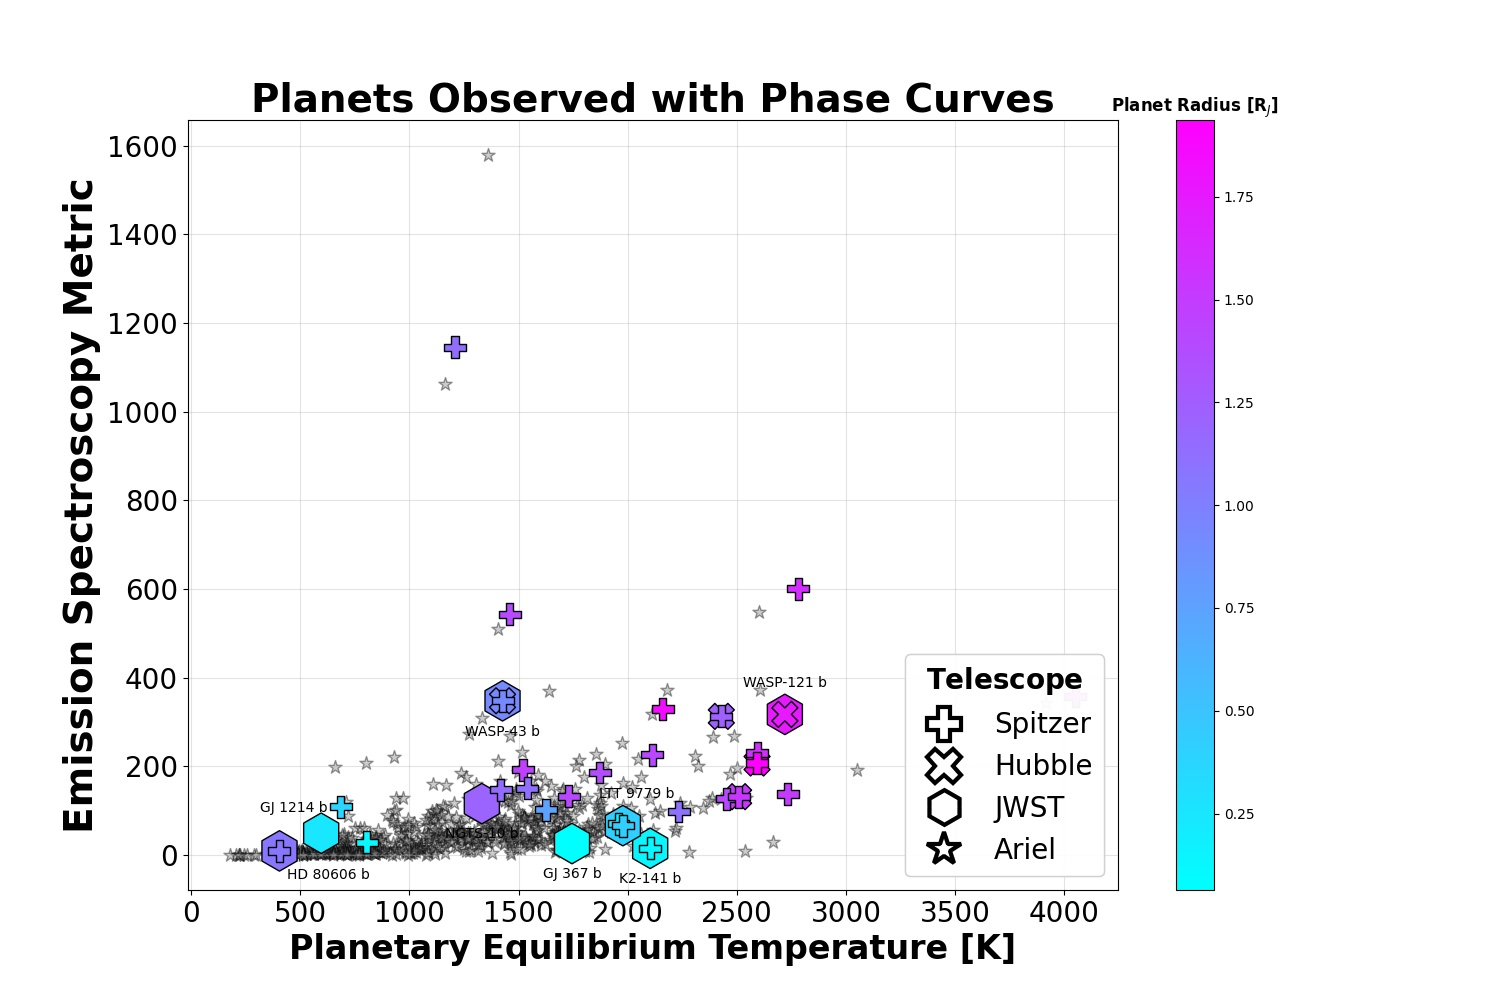
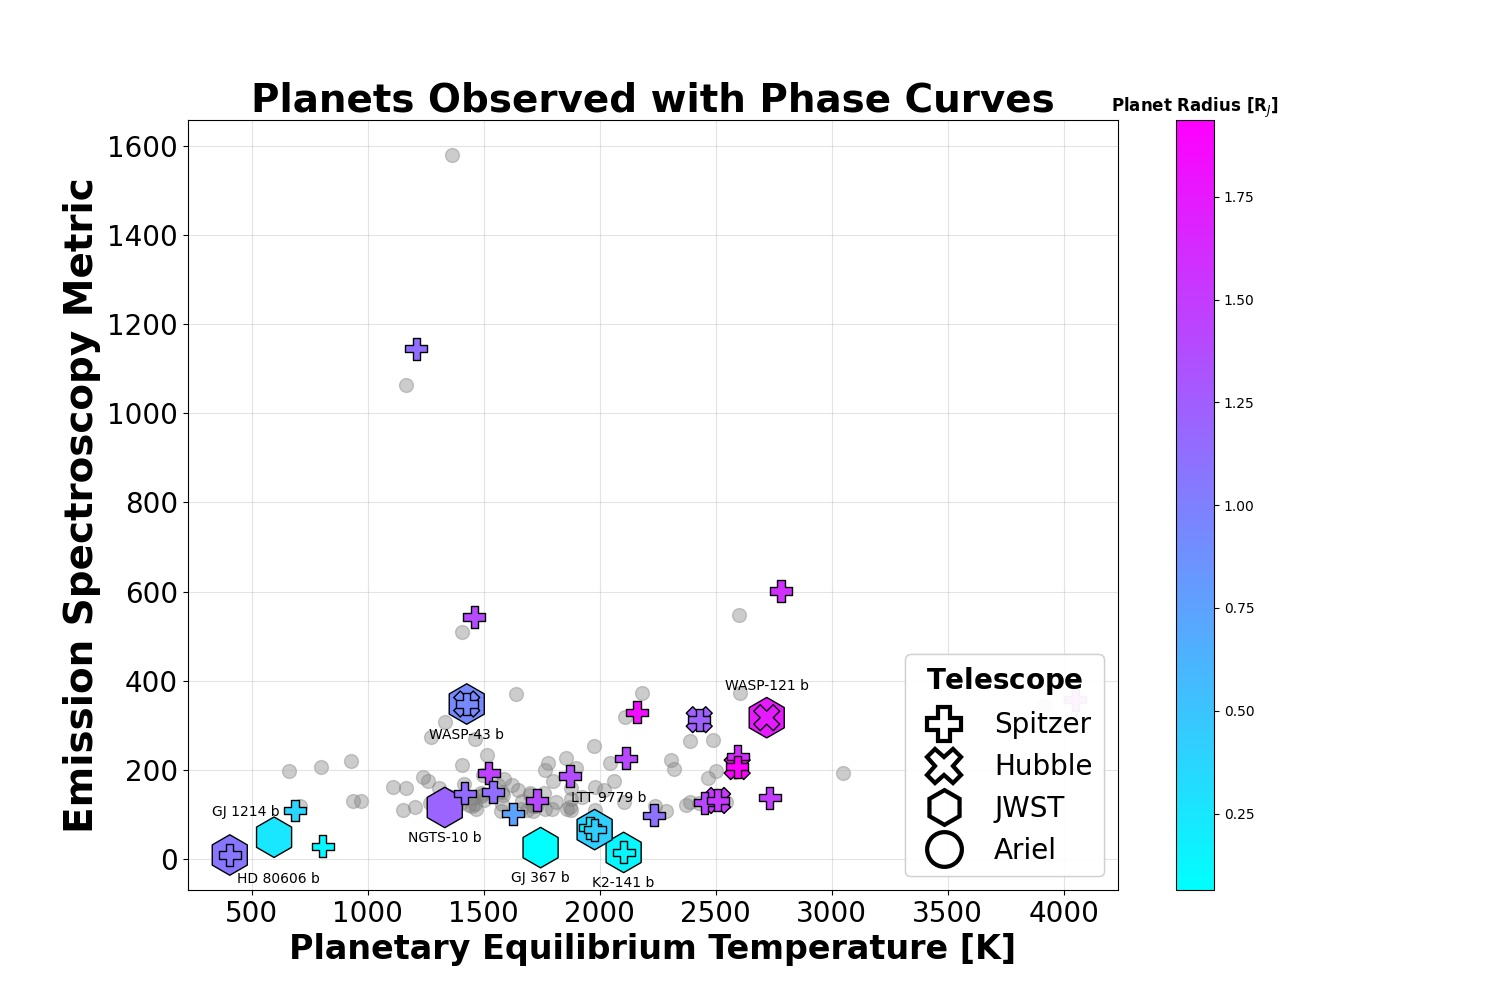
5/9 19:02

diff --git a/Ariel_Teq_period.py b/Ariel_Teq_period.py
@@ -12,10 +12,10 @@ ariel_ESM_high['Spectral Type'] = ariel_ESM_high['Star Spectral Type'].str[0]
 colors = {'O': 'violet', 'B': 'mediumblue', 'A': 'lightblue', 'F': 'lawngreen', 'G': 'yellow', 'K': 'orange', 'M': 'orangered', np.nan: 'grey'}
 
 
-Ariel_low_plot = ax.scatter(ariel_ESM_low["Planet Temperature [K]"], ariel_ESM_low['Planet Radius [Rj]'],
+Ariel_low_plot = ax.scatter(ariel_ESM_low["Planet Temperature [K]"], ariel_ESM_low['Planet Period [days]'],
                         alpha=0.4, s = 50, c = "pink", marker="o",
                         label = "Ariel", zorder = 1)
-Ariel_ESM_plot = ax.scatter(ariel_ESM_high["Planet Temperature [K]"], ariel_ESM_high['Planet Radius [Rj]'],
+Ariel_ESM_plot = ax.scatter(ariel_ESM_high["Planet Temperature [K]"], ariel_ESM_high['Planet Period [days]'],
                         alpha=0.9, s = 150, c = ariel_ESM_high['Spectral Type'].apply(lambda  x: colors[x]),
                         edgecolor= 'white', marker="o", zorder = 2)
 
@@ -27,15 +27,15 @@ Ariel_ESM_plot = ax.scatter(ariel_ESM_high["Planet Temperature [K]"], ariel_ESM_
 # Add the legend manually to the current Axes.
 #ax = plt.gca().add_artist(first_legend)
 legend_elements = [plt.scatter([], [], marker='o', color=color,  label=spec) for spec, color in colors.items()]
-plt.legend(handles=legend_elements, title='Spectral Type',   loc='lower right')
+plt.legend(handles=legend_elements, title='Spectral Type',   loc='upper right')
 
 
 plt.grid(True, alpha=0.35)
 plt.xlabel("Planetary Equilibrium Temperature [K]", fontsize=18)
-plt.ylabel("Planet Radius [$R_J$]", fontsize=18)
-plt.title("Ariel Phase Curve Targets: Temperature vs Radius", fontsize=24)
-#plt.yscale('log')
+plt.ylabel("Planet Period [days]", fontsize=18)
+plt.title("Ariel Phase Curve Targets: Temperature vs Period", fontsize=24)
+plt.yscale('log')
 # plt.ylim([0,105])
-plt.savefig(save_dir + 'Ariel-PhaseCurve-Temp-Rad.jpg')
+plt.savefig(save_dir + 'Ariel-PhaseCurve-Temp-Per.jpg')
 
 plt.show()

diff --git a/phasecurve_plot_cheryl.py b/phasecurve_plot_cheryl.py
@@ -48,7 +48,7 @@ ariel['ESM'] = ESM(1.1*ariel['Planet Temperature [K]'], ariel["Star Temperature 
 ariel['pl_g'] = (G*M_jup*ariel["Planet Mass [Mj]"])/ ((r_jup*ariel["Planet Radius [Rj]"])**2)
 
 #sort according to the shortest orbit and filter out the 10%
-cut_off = 500
+cut_off = 1000
 
 ariel_sort_so = ariel.sort_values('Planet Period [days]')
 cum_time = []
@@ -81,6 +81,10 @@ ariel_sort_ESM.index = ariel_sort_ESM.index + 1
 
 ariel_sort_ESM.to_csv(data_dir + 'ESM_Ariel_sort.csv')
 
+
+ariel_ESM_100 = ariel_sort_ESM.head(100)
+
+############################################3
 ariel_sort_eclipse_num = ariel.sort_values('Tier 3 Eclipses')
 cum_time = []
 cum = 0
@@ -110,10 +114,14 @@ ariel_giant = ariel.loc[ariel['Planet Mass [Mj]'] >= 0.624503]
 #from JWST_Phase_Curve_pg import *
 #from JWST_Phasecurve_prj import *
 #from JWST_Ariel_Phasecurve_PG_Ecc import *
-from Ariel_Period_Graph import *
+#from Ariel_Period_Graph import *
 #from JWST_Ariel_Fig3_PR_PP_PT import *
 #from JWST_Ariel_ESM_Period_T import *
-from Ariel_Cumulative_Period import *
-from Ariel_Temperature_Ecc import *
-from Ariel_ESM_Eclipse_Graph import *
-from Ariel_Ecc_Period import *
+#from Ariel_Cumulative_Period import *
+#from Ariel_Temperature_Ecc import *
+#from Ariel_ESM_Eclipse_Graph import *
+#from Ariel_Ecc_Period import *
+#from Ariel_Teq_Rp import *
+#from Ariel_Teq_period import *
+from Ariel_ESM_Planet_Rank import *
+from Ariel_num_eclipse_rank import *

diff --git a/JWST_Phasecurve_Graph.py b/JWST_Phasecurve_Graph.py
@@ -23,9 +23,12 @@ JWST_plot = ax.scatter(pc_telescope.query("JWST == 'Yes'")["pl_eqt"], pc_telesco
                        cmap=cmap,
                        label='JWST', zorder=2, vmin=min_, vmax=max_)
 
-Ariel_plot = ax.scatter(ariel["Planet Temperature [K]"], ariel['ESM'],
-                        alpha=0.4, s = 100, c = "grey", marker="*",
-                        edgecolor='black', cmap=cmap,
+print(ariel_sort_ESM.head(100))
+
+
+Ariel_plot = ax.scatter(ariel_ESM_100["Planet Temperature [K]"], ariel_ESM_100['ESM'],
+                        alpha=0.4, s = 100, c = "grey", marker="o",
+                        edgecolor='grey', cmap=cmap,
                         linewidths=1, label = "Ariel", zorder = 1, vmin=min_, vmax=max_)
 
 #ariel["Planet Radius [Rj]"]
@@ -93,7 +96,7 @@ legend_elements = [Line2D([0], [0], marker='P', color='w', label='Spitzer',
                           markerfacecolor='none', markeredgecolor='black', mew=3, markersize=25),
                    Line2D([0], [0], marker='h', color='w', label='JWST',
                           markerfacecolor='none', markeredgecolor='black', mew=3, markersize=25),
-                   Line2D([0], [0], marker='*', color='w', label='Ariel',
+                   Line2D([0], [0], marker='o', color='w', label='Ariel',
                           markerfacecolor='none', markeredgecolor='black', mew=3, markersize=25)
                    ]
 

diff --git a/JWST_Phase_Curve_pg.py b/JWST_Phase_Curve_pg.py
@@ -21,9 +21,9 @@ JWST_plot = ax.scatter(pc_telescope.query("JWST == 'Yes'")["pl_eqt"], pc_telesco
                        cmap=cmap,
                        label='JWST', zorder=2, vmin=0, vmax=max_)
 
-Ariel_plot = ax.scatter(ariel["Planet Temperature [K]"], ariel['pl_g'],
-                        alpha=0.4, s = 100, c = "grey", marker="*",
-                        edgecolor='black', cmap=cmap,
+Ariel_plot = ax.scatter(ariel_ESM_100["Planet Temperature [K]"], ariel_ESM_100['pl_g'],
+                        alpha=0.4, s = 100, c = "grey", marker="o",
+                        edgecolor='grey', cmap=cmap,
                         linewidths=1, label = "Ariel", zorder = 1, vmin=0, vmax=max_)
 
 # ax.set_clim(min_, max_)
@@ -132,7 +132,7 @@ legend_elements = [Line2D([0], [0], marker='P', color='w', label='Spitzer',
                           markerfacecolor='none', markeredgecolor='black', mew=3, markersize=25),
                    Line2D([0], [0], marker='h', color='w', label='JWST',
                           markerfacecolor='none', markeredgecolor='black', mew=3, markersize=25),
-                   Line2D([0], [0], marker='*', color='w', label='Ariel',
+                   Line2D([0], [0], marker='o', color='w', label='Ariel',
                           markerfacecolor='none', markeredgecolor='black', mew=3, markersize=25)
                    ]
 

diff --git a/Ariel_num_eclipse_rank.py b/Ariel_num_eclipse_rank.py
@@ -1,0 +1,28 @@
+from phasecurve_plot_cheryl import *
+
+fig, ax = plt.subplots(figsize=(15, 10))
+# plt.figure(figsize=(15,10))
+
+min_, max_ = ariel_sort_ESM['Planet Radius [Rj]'].min(), ariel_sort_ESM['Planet Radius [Rj]'].max()
+# cmap='viridis_r'
+cmap = 'PiYG'
+
+print(len(ariel_sort_ESM))
+
+Ariel_plot = ax.scatter(ariel_sort_eclipse_num.index.tolist(), ariel_sort_eclipse_num['ESM'],
+                        alpha=0.9, s = 50, c = ariel_sort_eclipse_num['Planet Radius [Rj]'], marker="o",
+                        label = "Ariel", zorder = 1)
+
+clb = fig.colorbar(Ariel_plot, ax=ax)  # .set_label('$\\bf{ESM} $',rotation=270,fontsize=15)
+#clb.ax.set_title('Planetary Equilibrium Temperature [K]', fontweight='bold')
+clb.set_label('Planet Radius [Rj]',fontsize=16)
+
+plt.grid(True, alpha=0.35)
+plt.xlabel("Planet Rank", fontsize=18)
+plt.ylabel("Emission Spectroscopy Metric", fontsize=18)
+plt.title("Ariel Phase Curve Targets - # eclipse Ranked", fontsize=24)
+plt.yscale('log')
+# plt.ylim([0,105])
+plt.savefig(save_dir + 'Ariel-PhaseCurve-Eclipse-Planet-Rank.jpg')
+
+plt.show()

diff --git a/Ariel_ESM_Planet_Rank.py b/Ariel_ESM_Planet_Rank.py
@@ -1,0 +1,28 @@
+from phasecurve_plot_cheryl import *
+
+fig, ax = plt.subplots(figsize=(15, 10))
+# plt.figure(figsize=(15,10))
+
+min_, max_ = ariel_sort_ESM['Planet Radius [Rj]'].min(), ariel_sort_ESM['Planet Radius [Rj]'].max()
+# cmap='viridis_r'
+cmap = 'PiYG'
+
+print(len(ariel_sort_ESM))
+
+Ariel_plot = ax.scatter(ariel_sort_ESM.index.tolist(), ariel_sort_ESM['ESM'],
+                        alpha=0.9, s = 50, c = ariel_sort_ESM['Planet Radius [Rj]'], marker="o",
+                        label = "Ariel", zorder = 1)
+
+clb = fig.colorbar(Ariel_plot, ax=ax)  # .set_label('$\\bf{ESM} $',rotation=270,fontsize=15)
+#clb.ax.set_title('Planetary Equilibrium Temperature [K]', fontweight='bold')
+clb.set_label('Planet Radius [Rj]',fontsize=16)
+
+plt.grid(True, alpha=0.35)
+plt.xlabel("Planet Rank", fontsize=18)
+plt.ylabel("Emission Spectroscopy Metric", fontsize=18)
+plt.title("Ariel Phase Curve Targets - ESM Ranked", fontsize=24)
+plt.yscale('log')
+# plt.ylim([0,105])
+plt.savefig(save_dir + 'Ariel-PhaseCurve-ESM-Planet-Rank.jpg')
+
+plt.show()

diff --git a/JWST_Ariel_Phasecurve_PG_Ecc.py b/JWST_Ariel_Phasecurve_PG_Ecc.py
@@ -13,8 +13,8 @@ Hubble_plot = ax.scatter(pc_telescope.query("Hubble == 'Yes'")["pl_eqt"], pc_tel
 JWST_plot = ax.scatter(pc_telescope.query("JWST == 'Yes'")["pl_eqt"], pc_telescope.query("JWST == 'Yes'")["pl_g"],
                        alpha=1, s=850, c='gold', marker='h', label='JWST', zorder=2)
 
-Ariel_plot = ax.scatter(ariel["Planet Temperature [K]"], ariel['pl_g'],
-                        alpha=0.4, s = 200, c = "grey", marker="*",
+Ariel_plot = ax.scatter(ariel_ESM_100["Planet Temperature [K]"], ariel_ESM_100['pl_g'],
+                        alpha=0.4, s = 150, c = "grey", marker="o",
                         label = "Ariel", zorder = 1)
 
 pc_telescope['T_max'] = pc_telescope['pl_eqt'] / np.sqrt(1 - pc_telescope['pl_orbeccen'])

diff --git a/JWST_Phasecurve_prj.py b/JWST_Phasecurve_prj.py
@@ -14,8 +14,8 @@ Hubble_plot = ax.scatter(pc_telescope.query("Hubble == 'Yes'")["pl_eqt"],
 JWST_plot = ax.scatter(pc_telescope.query("JWST == 'Yes'")["pl_eqt"], pc_telescope.query("JWST == 'Yes'")["pl_radj"],
                        alpha=1, s=850, c='gold', marker='h', label='JWST', zorder=2)
 
-Ariel_plot = ax.scatter(ariel["Planet Temperature [K]"], ariel['Planet Radius [Rj]'],
-                        alpha=0.4, s = 200, c = "grey", marker="*",
+Ariel_plot = ax.scatter(ariel_ESM_100["Planet Temperature [K]"], ariel_ESM_100['Planet Radius [Rj]'],
+                        alpha=0.4, s = 150, c = "grey", marker="o",
                          label = "Ariel", zorder = 1)
 
 

diff --git a/table_columns_name.py b/table_columns_name.py
@@ -109,6 +109,7 @@ columns_ariel = [
     "Star Age [Gyr]",
     "Star Distance [pc]",
     "Star K Mag",
+    "Star Spectral Type",
     "Telescope"
 ]
 
